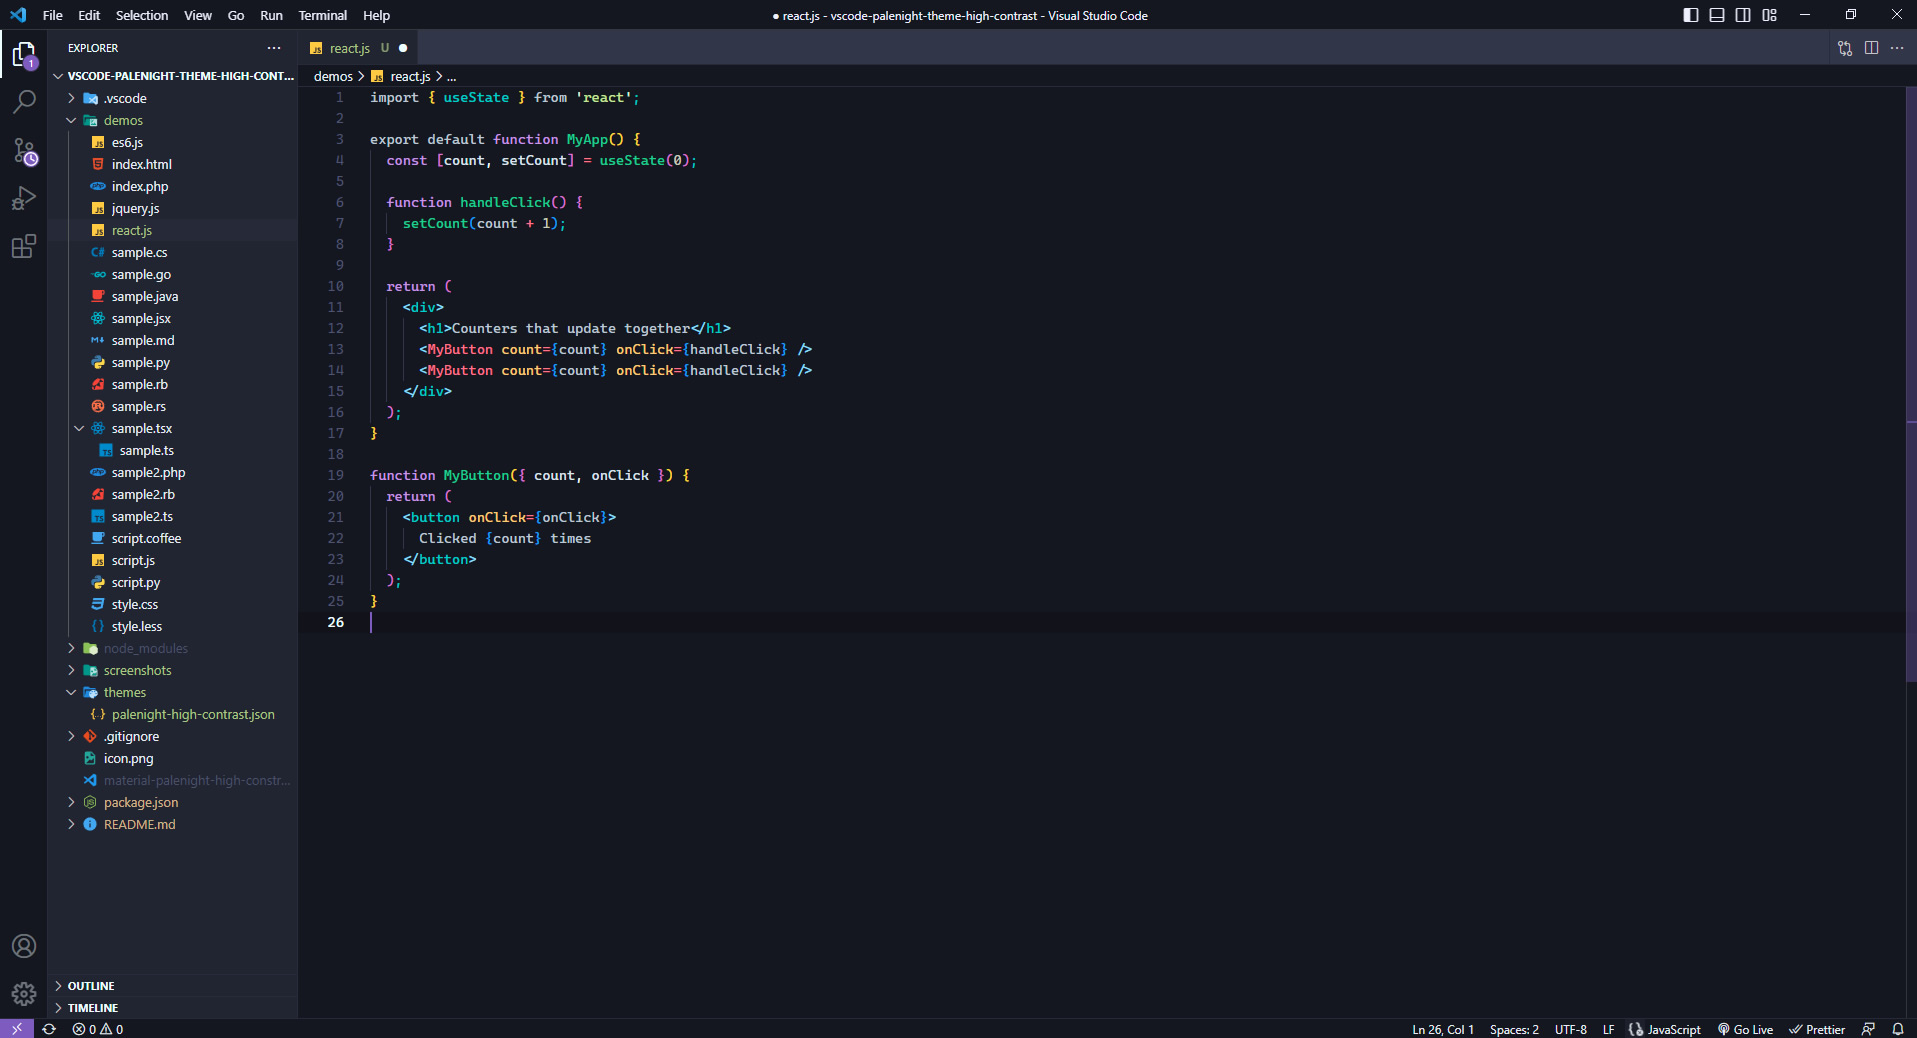
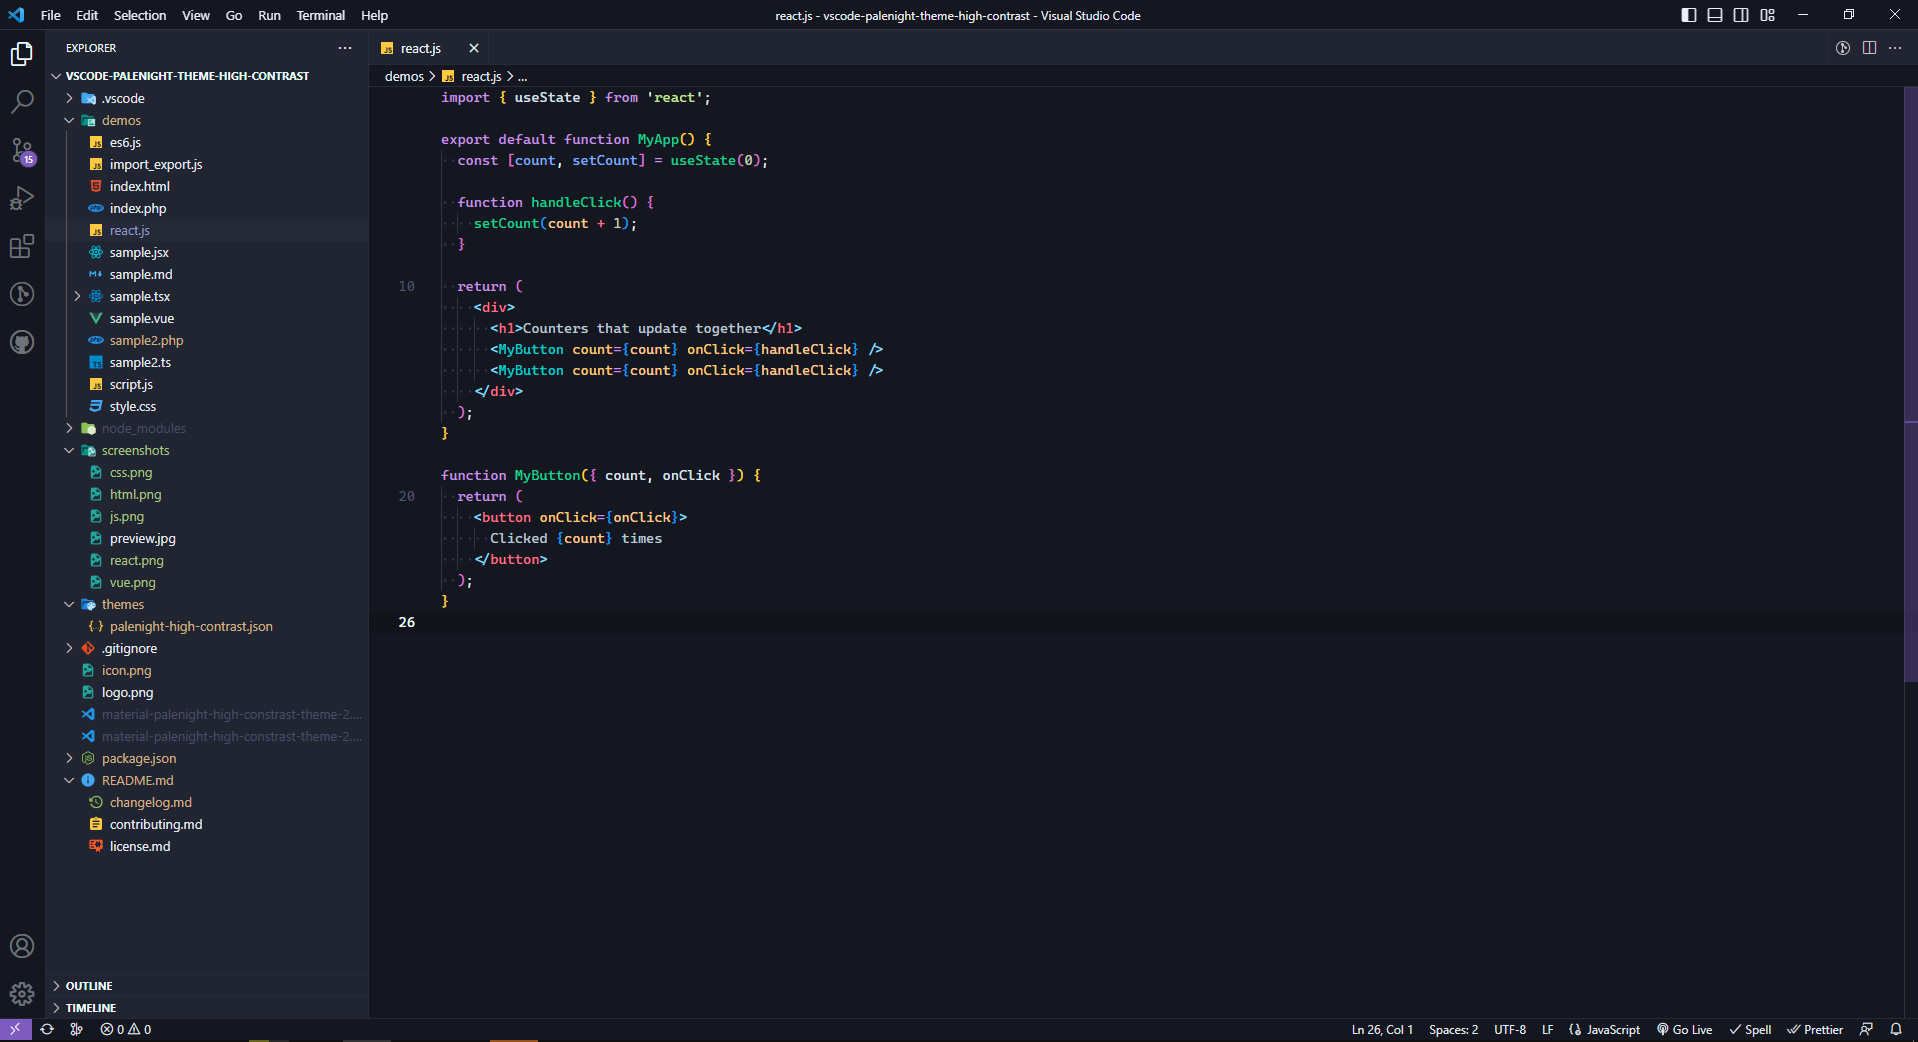
2.1.8

diff --git a/demos/sample2.php b/demos/sample2.php
@@ -1,20 +1,30 @@
-<h1 class="hey" id="id">AAAA</h1>
-
 <?php
-if (!isset($_SERVER['PHP_AUTH_USER'])) {
-  header('WWW-Authenticate: Basic realm="My Realm"');
-  header('HTTP/1.0 401 Unauthorized');
-  echo 'Text to send if user hits Cancel button';
-  exit;
-} else {
-  echo "<p>Hello {$_SERVER['PHP_AUTH_USER']}.</p>";
-  echo "<p>You entered {$_SERVER['PHP_AUTH_PW']} as your password.</p>";
-}
-?>
+trait World {
 
-<html lang="en">
-<head>
-  <title><?php echo $title; ?></title>
-  <meta name="keywords" content="<?php echo $keywords; ?>"/>
-</head>
-</html>
+    private static $instance;
+    protected $tmp;
+
+    public static function World()
+    {
+        self::$instance = new static();
+        self::$instance->tmp = get_called_class().' '.__TRAIT__;
+
+        return self::$instance;
+    }
+
+}
+
+if ( trait_exists( 'World' ) ) {
+
+    class Hello {
+        use World;
+
+        public function text( $str )
+        {
+            return $this->tmp.$str;
+        }
+    }
+
+}
+
+echo Hello::World()->text('!!!'); // Hello World!!!

diff --git a/README.md b/README.md
@@ -1,4 +1,4 @@
-# Eye Strain Relief - Theme [![Preview in vscode.dev](https://img.shields.io/badge/preview%20in-vscode.dev-blue)](https://vscode.dev/theme/andreluis-oliveira.material-palenight-high-constrast-theme/Eye%20Strain%20Relief%20Theme)
+# Luminescence Theme [![Preview in vscode.dev](https://img.shields.io/badge/preview%20in-vscode.dev-blue)](https://vscode.dev/theme/andreluis-oliveira.material-palenight-high-constrast-theme/Luminescence%20Theme)
 
 This high-contrast theme is vastly easier on the eyes and reduces eye strain.
 
@@ -36,5 +36,3 @@ High-contrast mode is designed for users with weak eyesight to help them read te
 The font used in the screenshot is [Cascadia Code](https://github.com/microsoft/cascadia-code/)
 
 This theme is a fork of [Palenight](https://marketplace.visualstudio.com/items?itemName=whizkydee.material-palenight-theme)
-
-Eye Insurance vector by tezar tantular from [Noun Project](https://thenounproject.com/browse/icons/term/eye-insurance/)

diff --git a/changelog.md b/changelog.md
@@ -1,3 +1,12 @@
+# 2.1.8 (27.04.2023)
+
+- fix Javascript and TypeScript import/export color. (fixes [#1](https://github.com/andreluis-oliveira/vscode-luminescence-theme/issues/1))
+- new screenshots.
+
+# 2.1.7 (16.04.2023)
+
+- Changed the name and icon logo.
+
 # 2.1.6 (13.04.2023)
 
 - Other minor changes
